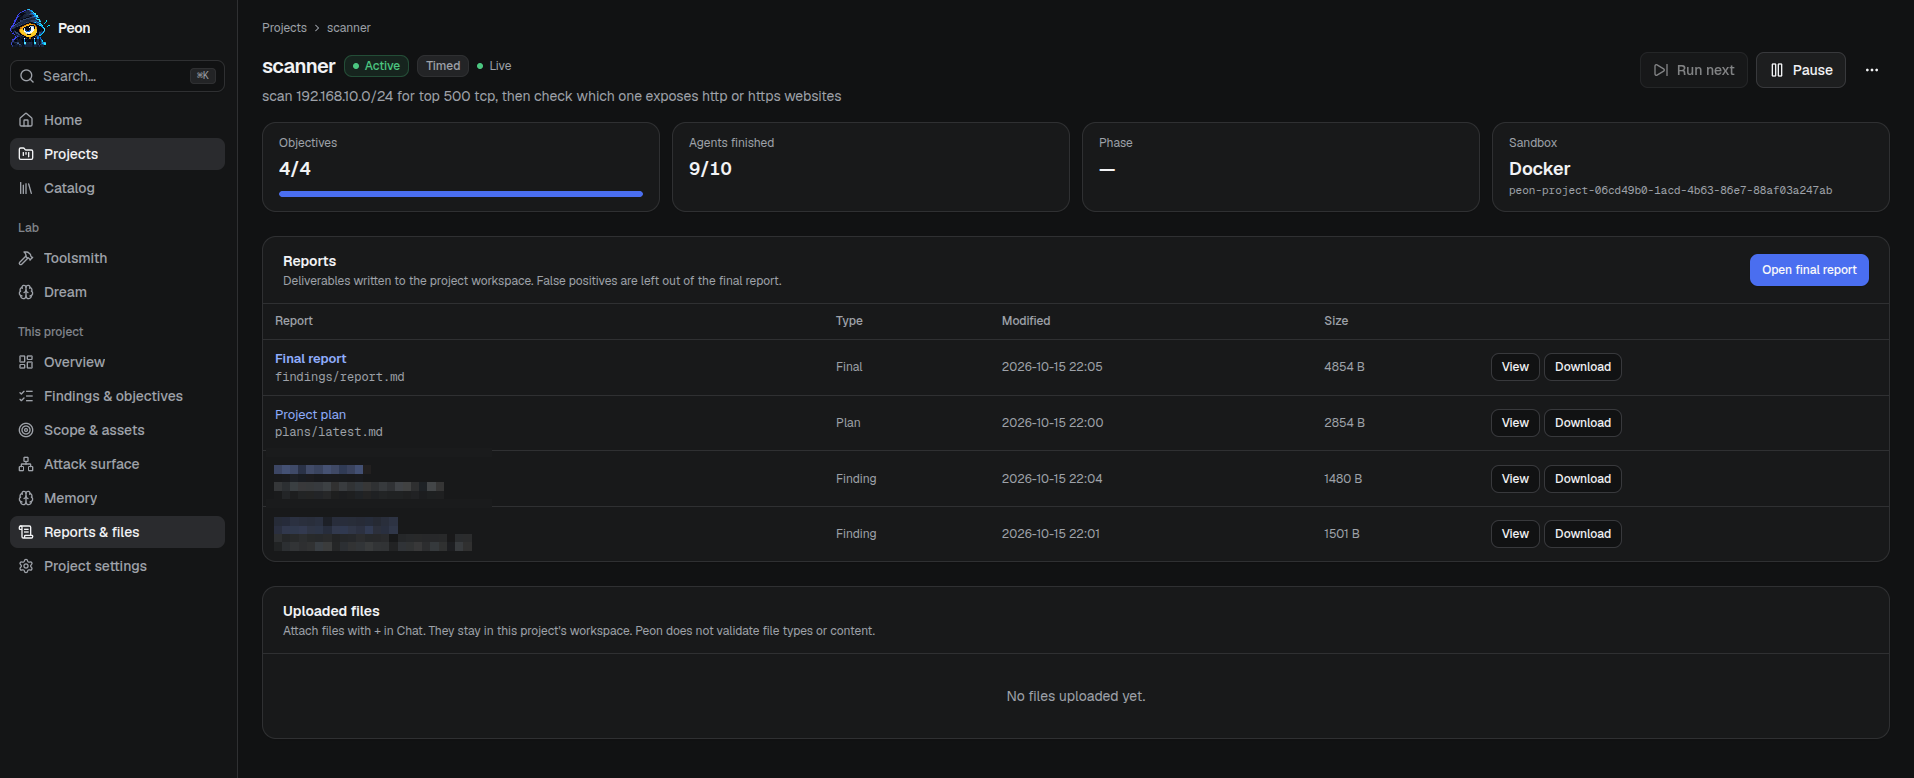
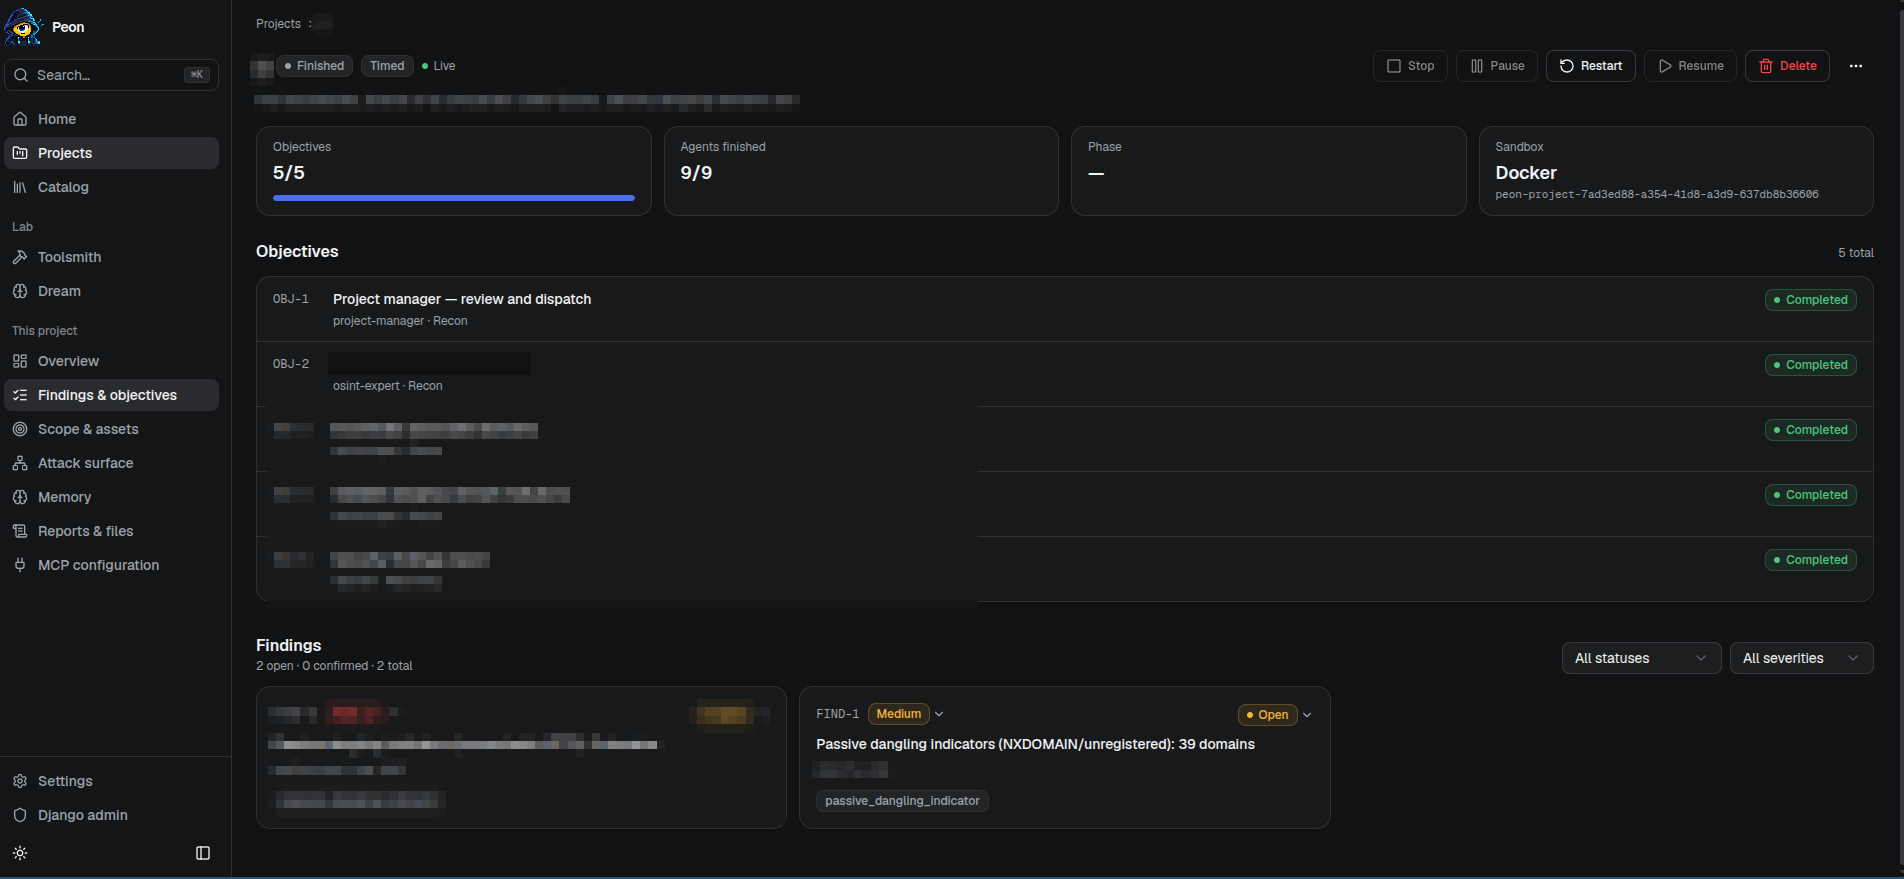
updating readme

diff --git a/README.md b/README.md
@@ -12,10 +12,9 @@
 ---
 
 ## Overview
+Peon is a self-hosted console for the cybersec engagements. It  turns an operator brief into a plan, objectives, and runs a **crew** of sandboxed agents: a **project manager** with set of specialists with specific **roles** who spawn**workers** (subagents) that execute Dramatiq jobs (relevant cli/custom tools or scripts) in dedicated sandboxes. Skills and tools are defined on extend as catalog, can either manually extende, or by Peon suggestions. OpenSkills, Claude-style skills are supported as well as custom ones. Agents and workers cooridination is handled by **A2A** interface allowing better handover and delegation; specialists can spawn more workers when work fans out.
 
-Peon turns an operator brief into a plan, objectives, and a **crew** of sandboxed agents: a **project manager**, catalog **roles**, and Dramatiq **worker** jobs that run tools and scripts. Skills and CLI tools extend as catalog files, not forked app code. Live jobs can coordinate via **A2A** messages; specialists can spawn more workers when work fans out.
-
-Operators set Rules of Engagement, steer live jobs, promote discoveries into scope, triage findings, and take reports. Between engagements, Peon keeps a **semantic memory** (fed live, consolidated on a dream cycle, recalled into new projects) so crews do not start every engagement from zero — that is what **Cognee** is for.
+Operators set Rules of Engagement, steer live jobs, promote discoveries into scope, triage findings, and take reports. Between engagements, Peon keeps a semantic memory using **Cognee**. Memory is routeinly curated by a background job introducing a "dreaming effect" inspired by Anthropic agent dreaming. Curated memeory recalled into new projects to improve planning.
 
 ---
 
@@ -72,7 +71,7 @@ flowchart TD
 
 - **Plan / replan** — Brief or chat → objectives → jobs; rewritable mid-run or after finish.
 - **Rules of Engagement** — Scope is authorization; promote candidates before active probes.
-- **HITL** — Chat, sandbox PTY, and prompts when an agent needs operator input.
+- **HITL** — Chat, sandbox PTY  terminal are accessible in the project war room. Prompts are triggered whever an agent needs operators input.
 - **Steer** — Instruct live agents or edit/re-run a job command.
 - **Findings & attack surface** — Severity-tagged discoveries + asset graph.
 - **Reports** — Analyzer synthesizes workspace evidence.
@@ -81,14 +80,14 @@ flowchart TD
 ### Sandbox & tooling
 
 - **Per-project sandbox** — Isolated Docker; artifacts stay in-project; wiped on delete.
-- **Catalogs** — roles, skills, role mappings, and MCP servers live in the platform SQLite catalog; CLI tools stay in `tools/catalog/*.yaml`.
-- **Install cascade** — PATH → catalog YAML → LLM recipe (`apt` / `github_release` / `git_clone` / `pip` / `custom` + `verify`).
-- **MCP** — MCP servers are parsed into the platform catalog and provisioned inside the project sandbox. Heavy backing services (ghidra,BHCE ...etc) stay outside the container and are reached through URIs.
+- **Catalogs** — roles, skills, role mappings,MCP servers as well as complete claude/codex workspaces (such as [SpectreOps Markerplace](https://github.com/SpecterOps/skills) ). live in the platform SQLite catalog; CLI tools stay in `tools/catalog/*.yaml`, Peon is not bound to these tools but prefers them over availale tools in the sandbox (or suggested by the llm)
+- **Tool install** — If a command is already in the project sandbox, Peon uses it. Otherwise it installs the tool from the catalog, which records how to provision it(a Kali package, a GitHub release, pip, a git clone, or through custom script). Then checks that it actually runs. When the catalog has no entry, Peon asks the model for an install recipe.
+- **MCP** — MCP servers are parsed into the platform catalog and provisioned inside the project sandbox. Heavy backing services (ghidra,BHCE ...etc) stay outside the container, confiugrations announced by the mcp can be edited from engagement (project) itself.
 
 ### Lab
 
-- **Toolsmith** — Prompt Poen to prepare installation package for a complex/custom tool or skill. if code writting is needed, Peon uses OpenCode; Toolsmish also help linting and testing draft packages in a Lab sandbox (not mid-engagement). 
-- **Dream** — Improve performance by curating and improving persistant memory by improvement cycle. improved memory is recalled when a new project starts, reducing potential issues nad learning from previous prompts/mistakes (need to be revised).
+- **Toolsmith** — Prompt Poen to prepare installation package for a arbitrary/custom tool or skill. if code writting is needed, Peon uses OpenCode; Toolsmish also help linting and testing draft packages in a Lab sandbox (not mid-engagement) before publishing it in the catalog. 
+- **Dream** — (WIP) Improve performance by curating and improving persistant memory by improvement cycle. improved memory is recalled when a new project starts, reducing potential issues nad learning from previous prompts/mistakes (need to be revised).
 
 ### Memory (Cognee)
 
@@ -104,32 +103,29 @@ Settings: `COGNEE_ENABLED`, `COGNEE_PORT`, `LITELLM_MODEL` (chat via OpenRouter)
 
 ## Screenshots
 
-### Dashboard
+### Home
 
-<img src="images/dashboard.png" alt="Peon proect dashboard" width="900">
+<img src="images/dashboard.png" alt="Home: projects and fleet status" width="900">
 
-### Agents graph
-<img src="images/agent-graph.png" alt="Peon proect agent graph view" width="900">
+### Project
 
-### Rules of Engagement
+<img src="images/dashboard2.png" alt="Project overview: agent graph, chat, and activity" width="900">
 
-<img src="images/roe.png" alt="Rules of Engagement and assets" width="900">
+### Agent graph
+
+<img src="images/dashboard3.png" alt="Agent graph of the project crew" width="900">
 
 ### Findings
 
-<img src="images/findings.png" alt="Findings board" width="900">
+<img src="images/findings.png" alt="Findings and objectives" width="900">
 
 ### Attack surface
 
 <img src="images/attack-surface.png" alt="Attack surface asset graph" width="900">
 
-### In-browser terminal
+### Terminal
 
-<img src="images/pty-shell.png" alt="In-browser PTY shell into the project sandbox" width="900">
-
-### Report hub
-
-<img src="images/report-hub.png" alt="Report hub" width="900">
+<img src="images/terminal.png" alt="In-browser terminal in the project sandbox" width="900">
 
 ---
 
